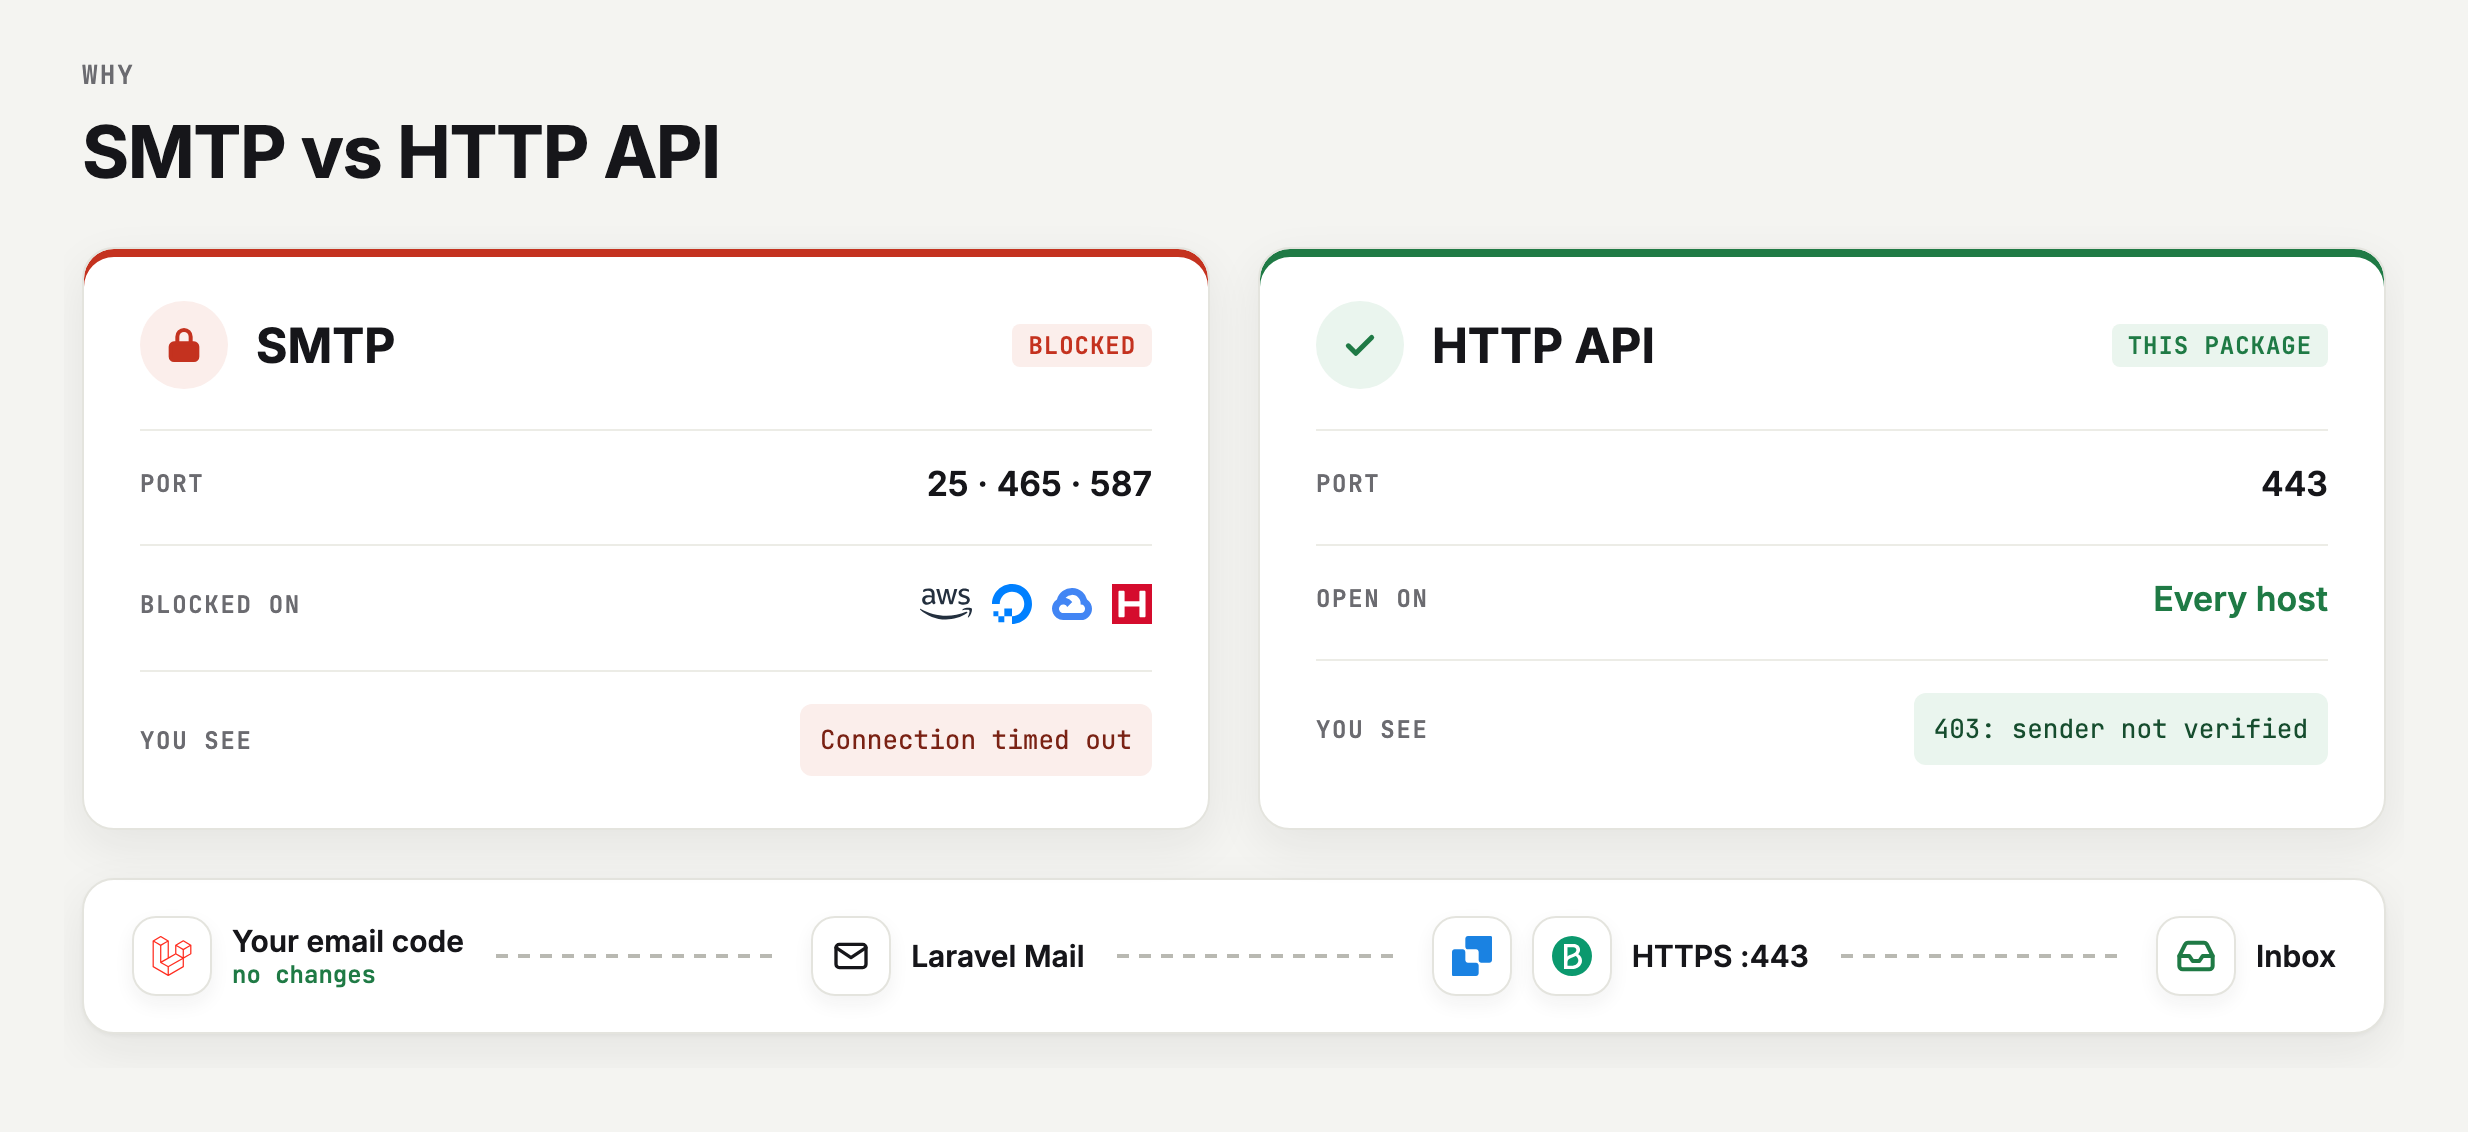
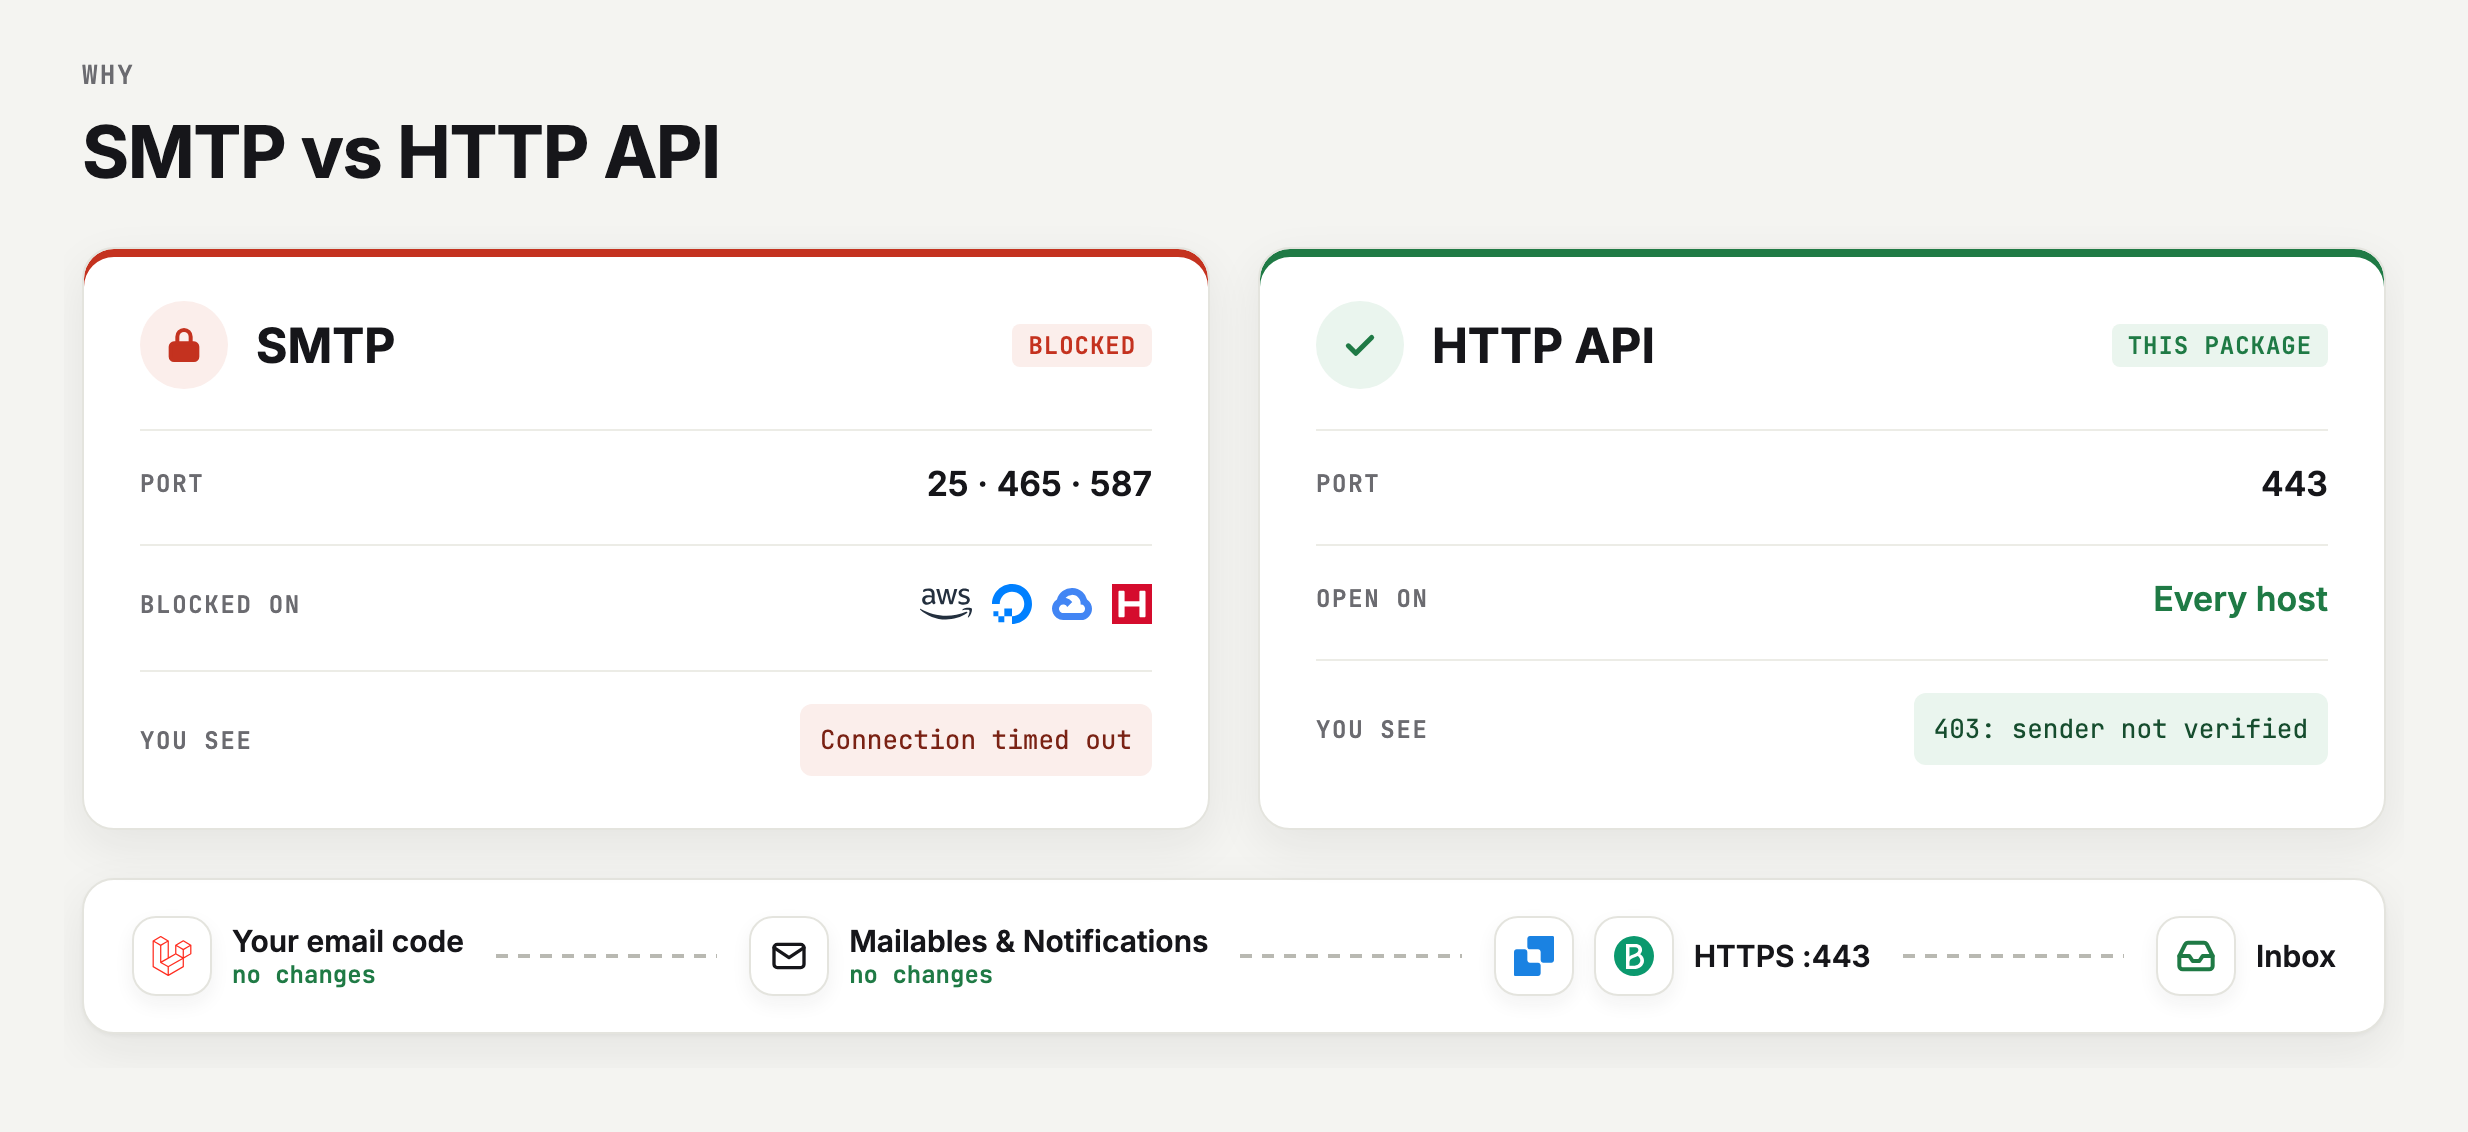
Docs: move comparison up, add no-code-changes section for Mailables and Notifications

Changed region(s): [[0.312, 0.8039, 0.4992, 0.8657], [0.5616, 0.8039, 0.78, 0.8657]]

diff --git a/art/src/smtp-vs-api.html b/art/src/smtp-vs-api.html
@@ -59,7 +59,7 @@
   <div class="card flow">
     <div class="chip"><div class="ic">{{icon:laravel:ff2d20:20}}</div><div>Your email code<div class="s">no changes</div></div></div>
     <div class="to"></div>
-    <div class="chip"><div class="ic"><svg width="20" height="20" viewBox="0 0 24 24" fill="none" stroke="#16161a" stroke-width="2" stroke-linecap="round" stroke-linejoin="round"><rect x="3" y="5" width="18" height="14" rx="2"/><path d="M3 7l9 6 9-6"/></svg></div>Laravel Mail</div>
+    <div class="chip"><div class="ic"><svg width="20" height="20" viewBox="0 0 24 24" fill="none" stroke="#16161a" stroke-width="2" stroke-linecap="round" stroke-linejoin="round"><rect x="3" y="5" width="18" height="14" rx="2"/><path d="M3 7l9 6 9-6"/></svg></div><div>Mailables &amp; Notifications<div class="s">no changes</div></div></div>
     <div class="to"></div>
     <div class="chip"><div class="ic">{{icon:sendgrid:1a82e2:20}}</div><div class="ic">{{icon:brevo:0b996e:20}}</div>HTTPS :443</div>
     <div class="to"></div>

diff --git a/README.md b/README.md
@@ -14,7 +14,7 @@
 
 - <img src="https://raw.githubusercontent.com/lmottasin/laravel-http-mailer/main/art/ui/lock.svg" width="16" height="16" alt=""> **Problem:** cloud hosts block SMTP ports (25, 465, 587) for security, so Laravel emails time out.
 - <img src="https://raw.githubusercontent.com/lmottasin/laravel-http-mailer/main/art/ui/arrow.svg" width="16" height="16" alt=""> **Fix:** send through the **SendGrid** or **Brevo** API over HTTPS (port 443).
-- <img src="https://raw.githubusercontent.com/lmottasin/laravel-http-mailer/main/art/ui/code.svg" width="16" height="16" alt=""> **No changes to your email code.** Mailables, Notifications and `Mail::` keep working. Just one line in `.env`.
+- <img src="https://raw.githubusercontent.com/lmottasin/laravel-http-mailer/main/art/ui/code.svg" width="16" height="16" alt=""> **No changes to your email code.** Your Mailables and Notifications keep working as they are. Just one line in `.env`.
 
 ## Why
 
@@ -22,6 +22,36 @@
   <source media="(max-width: 700px)" srcset="https://raw.githubusercontent.com/lmottasin/laravel-http-mailer/main/art/smtp-vs-api-mobile.png">
   <img src="https://raw.githubusercontent.com/lmottasin/laravel-http-mailer/main/art/smtp-vs-api.png" alt="SMTP: ports 25, 465 and 587 are blocked on AWS, DigitalOcean, Google Cloud and Hetzner, and you see 'Connection timed out'. HTTP API: port 443 is open on every host, and errors are clear, like '403: sender not verified'. Your email code doesn't change." width="100%">
 </picture>
+
+## No code changes
+
+Everything you already send keeps working. Only `.env` changes.
+
+| | |
+|---|---|
+| <img src="https://raw.githubusercontent.com/lmottasin/laravel-http-mailer/main/art/ui/check.svg" width="16" height="16" alt=""> **Mailables** | `Mail::to($user)->send(new WelcomeMail)` |
+| <img src="https://raw.githubusercontent.com/lmottasin/laravel-http-mailer/main/art/ui/check.svg" width="16" height="16" alt=""> **Notifications** (mail channel) | `$user->notify(new OrderShipped($order))` |
+| <img src="https://raw.githubusercontent.com/lmottasin/laravel-http-mailer/main/art/ui/check.svg" width="16" height="16" alt=""> **Queued mail** | `Mail::to($user)->queue(new InvoiceMail)` |
+| <img src="https://raw.githubusercontent.com/lmottasin/laravel-http-mailer/main/art/ui/check.svg" width="16" height="16" alt=""> **Raw mail** | `Mail::raw('Hi', fn ($m) => $m->to($email))` |
+
+## How it compares
+
+<picture>
+  <source media="(max-width: 700px)" srcset="https://raw.githubusercontent.com/lmottasin/laravel-http-mailer/main/art/compare-mobile.png">
+  <img src="https://raw.githubusercontent.com/lmottasin/laravel-http-mailer/main/art/compare.png" alt="Comparison of this package with the Symfony mailer bridges, s-ichikawa/laravel-sendgrid-driver and the official sendgrid/sendgrid SDK." width="100%">
+</picture>
+
+<details>
+<summary>Same comparison as text</summary>
+
+| Package | Works with `Mail::` | SendGrid + Brevo | No glue code |
+|---|:-:|:-:|:-:|
+| **lmottasin/laravel-http-mailer** | <img src="https://raw.githubusercontent.com/lmottasin/laravel-http-mailer/main/art/ui/check.svg" width="16" height="16" alt="Yes"> | <img src="https://raw.githubusercontent.com/lmottasin/laravel-http-mailer/main/art/ui/check.svg" width="16" height="16" alt="Yes"> | <img src="https://raw.githubusercontent.com/lmottasin/laravel-http-mailer/main/art/ui/check.svg" width="16" height="16" alt="Yes"> |
+| `symfony/*-mailer` bridges | <img src="https://raw.githubusercontent.com/lmottasin/laravel-http-mailer/main/art/ui/cross.svg" width="16" height="16" alt="No"> | <img src="https://raw.githubusercontent.com/lmottasin/laravel-http-mailer/main/art/ui/cross.svg" width="16" height="16" alt="No"> | <img src="https://raw.githubusercontent.com/lmottasin/laravel-http-mailer/main/art/ui/cross.svg" width="16" height="16" alt="No"> |
+| `s-ichikawa/laravel-sendgrid-driver` | <img src="https://raw.githubusercontent.com/lmottasin/laravel-http-mailer/main/art/ui/check.svg" width="16" height="16" alt="Yes"> | <img src="https://raw.githubusercontent.com/lmottasin/laravel-http-mailer/main/art/ui/cross.svg" width="16" height="16" alt="No"> | <img src="https://raw.githubusercontent.com/lmottasin/laravel-http-mailer/main/art/ui/check.svg" width="16" height="16" alt="Yes"> |
+| `sendgrid/sendgrid` (SDK) | <img src="https://raw.githubusercontent.com/lmottasin/laravel-http-mailer/main/art/ui/cross.svg" width="16" height="16" alt="No"> | <img src="https://raw.githubusercontent.com/lmottasin/laravel-http-mailer/main/art/ui/cross.svg" width="16" height="16" alt="No"> | <img src="https://raw.githubusercontent.com/lmottasin/laravel-http-mailer/main/art/ui/cross.svg" width="16" height="16" alt="No"> |
+
+</details>
 
 ## Requirements
 
@@ -273,25 +303,6 @@ Apps can then use `MAIL_MAILER=foo` and `FOO_API_KEY=...`. PRs for new providers
 1. **`register()`** loads the package config, registers each driver, and adds a `mail.mailers.<name>` entry (unless you already defined one).
 2. **`boot()`** calls Laravel's `Mail::extend()` for each driver.
 3. When Laravel sends an email, the driver builds a Symfony transport through the official SendGrid or Brevo bridge, and that transport makes an HTTPS request to the provider's API.
-
-## How it compares
-
-<picture>
-  <source media="(max-width: 700px)" srcset="https://raw.githubusercontent.com/lmottasin/laravel-http-mailer/main/art/compare-mobile.png">
-  <img src="https://raw.githubusercontent.com/lmottasin/laravel-http-mailer/main/art/compare.png" alt="Comparison of this package with the Symfony mailer bridges, s-ichikawa/laravel-sendgrid-driver and the official sendgrid/sendgrid SDK." width="100%">
-</picture>
-
-<details>
-<summary>Same comparison as text</summary>
-
-| Package | Works with `Mail::` | SendGrid + Brevo | No glue code |
-|---|:-:|:-:|:-:|
-| **lmottasin/laravel-http-mailer** | <img src="https://raw.githubusercontent.com/lmottasin/laravel-http-mailer/main/art/ui/check.svg" width="16" height="16" alt="Yes"> | <img src="https://raw.githubusercontent.com/lmottasin/laravel-http-mailer/main/art/ui/check.svg" width="16" height="16" alt="Yes"> | <img src="https://raw.githubusercontent.com/lmottasin/laravel-http-mailer/main/art/ui/check.svg" width="16" height="16" alt="Yes"> |
-| `symfony/*-mailer` bridges | <img src="https://raw.githubusercontent.com/lmottasin/laravel-http-mailer/main/art/ui/cross.svg" width="16" height="16" alt="No"> | <img src="https://raw.githubusercontent.com/lmottasin/laravel-http-mailer/main/art/ui/cross.svg" width="16" height="16" alt="No"> | <img src="https://raw.githubusercontent.com/lmottasin/laravel-http-mailer/main/art/ui/cross.svg" width="16" height="16" alt="No"> |
-| `s-ichikawa/laravel-sendgrid-driver` | <img src="https://raw.githubusercontent.com/lmottasin/laravel-http-mailer/main/art/ui/check.svg" width="16" height="16" alt="Yes"> | <img src="https://raw.githubusercontent.com/lmottasin/laravel-http-mailer/main/art/ui/cross.svg" width="16" height="16" alt="No"> | <img src="https://raw.githubusercontent.com/lmottasin/laravel-http-mailer/main/art/ui/check.svg" width="16" height="16" alt="Yes"> |
-| `sendgrid/sendgrid` (SDK) | <img src="https://raw.githubusercontent.com/lmottasin/laravel-http-mailer/main/art/ui/cross.svg" width="16" height="16" alt="No"> | <img src="https://raw.githubusercontent.com/lmottasin/laravel-http-mailer/main/art/ui/cross.svg" width="16" height="16" alt="No"> | <img src="https://raw.githubusercontent.com/lmottasin/laravel-http-mailer/main/art/ui/cross.svg" width="16" height="16" alt="No"> |
-
-</details>
 
 ## Troubleshooting
 
